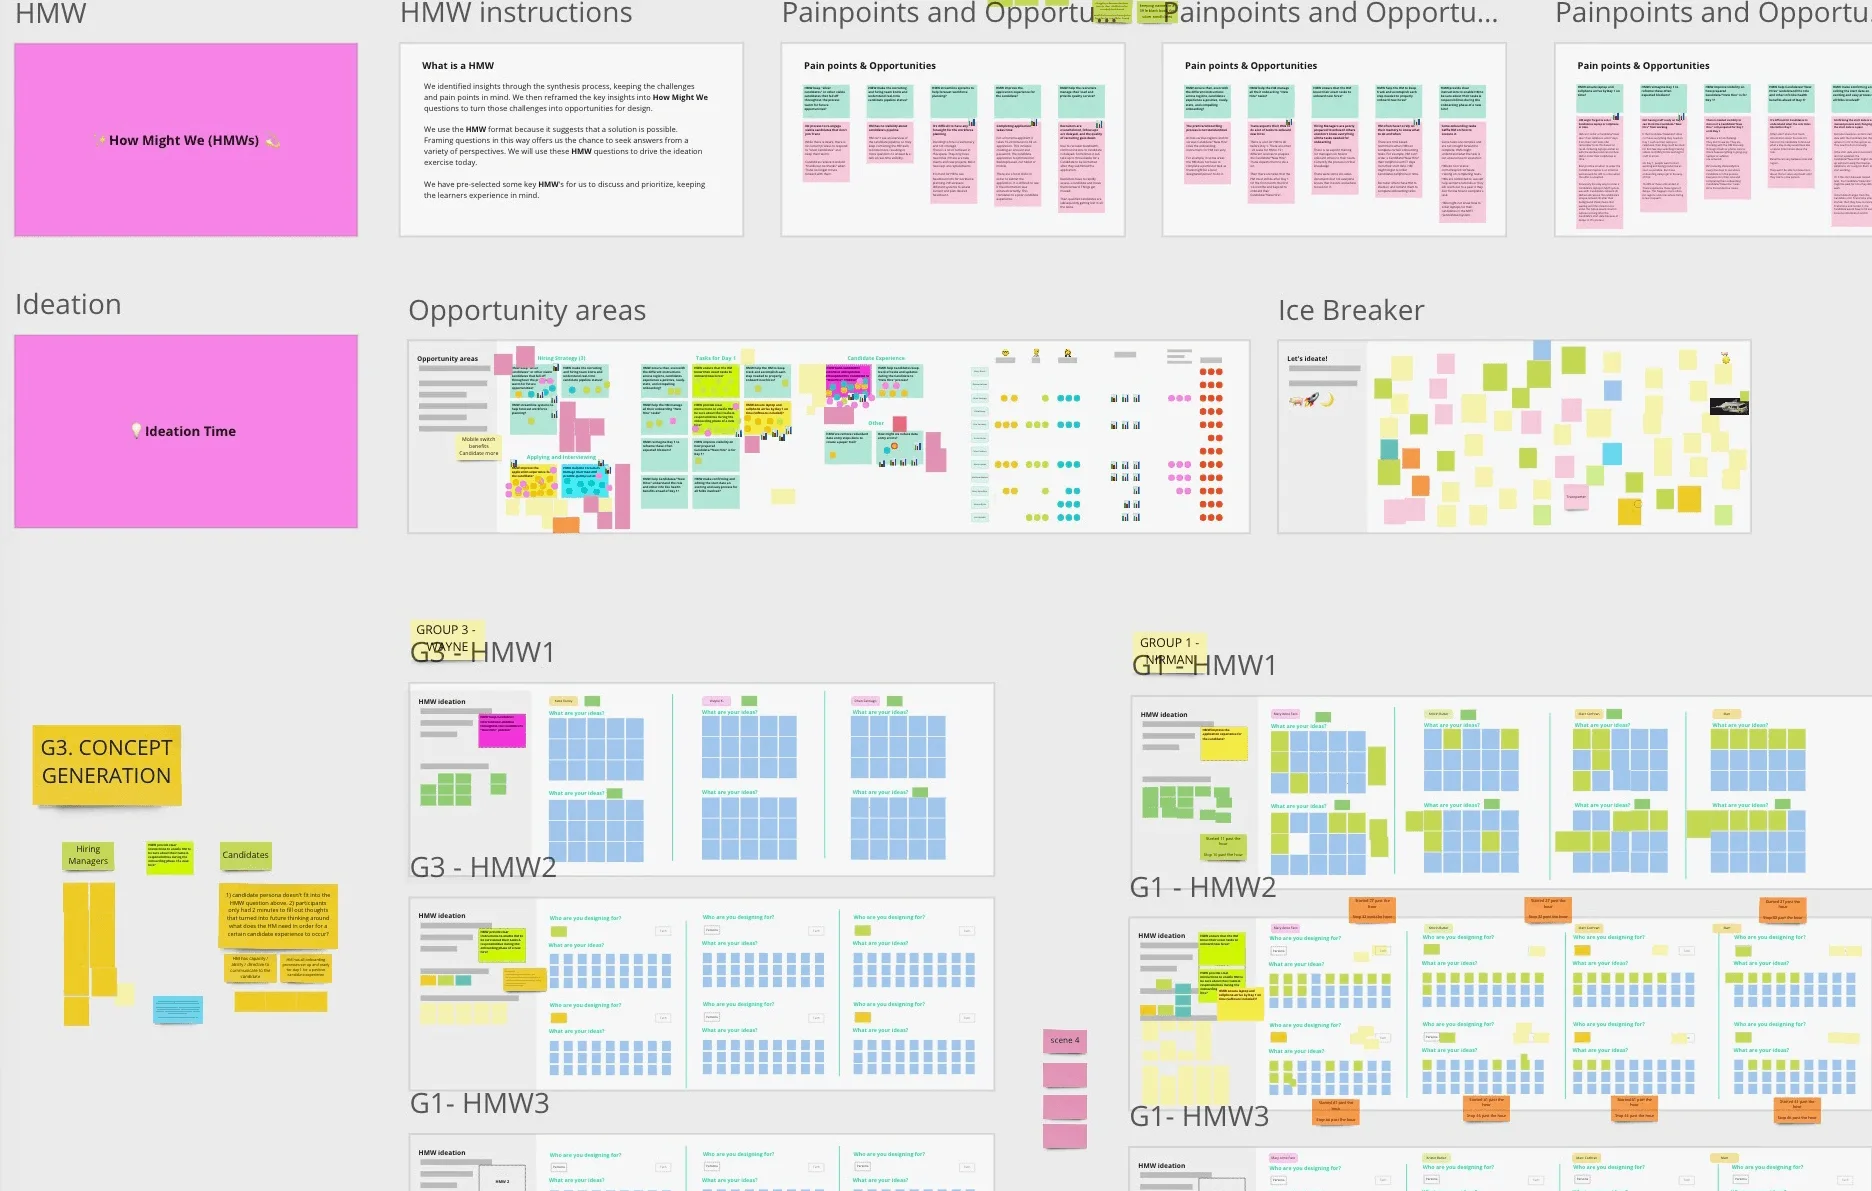
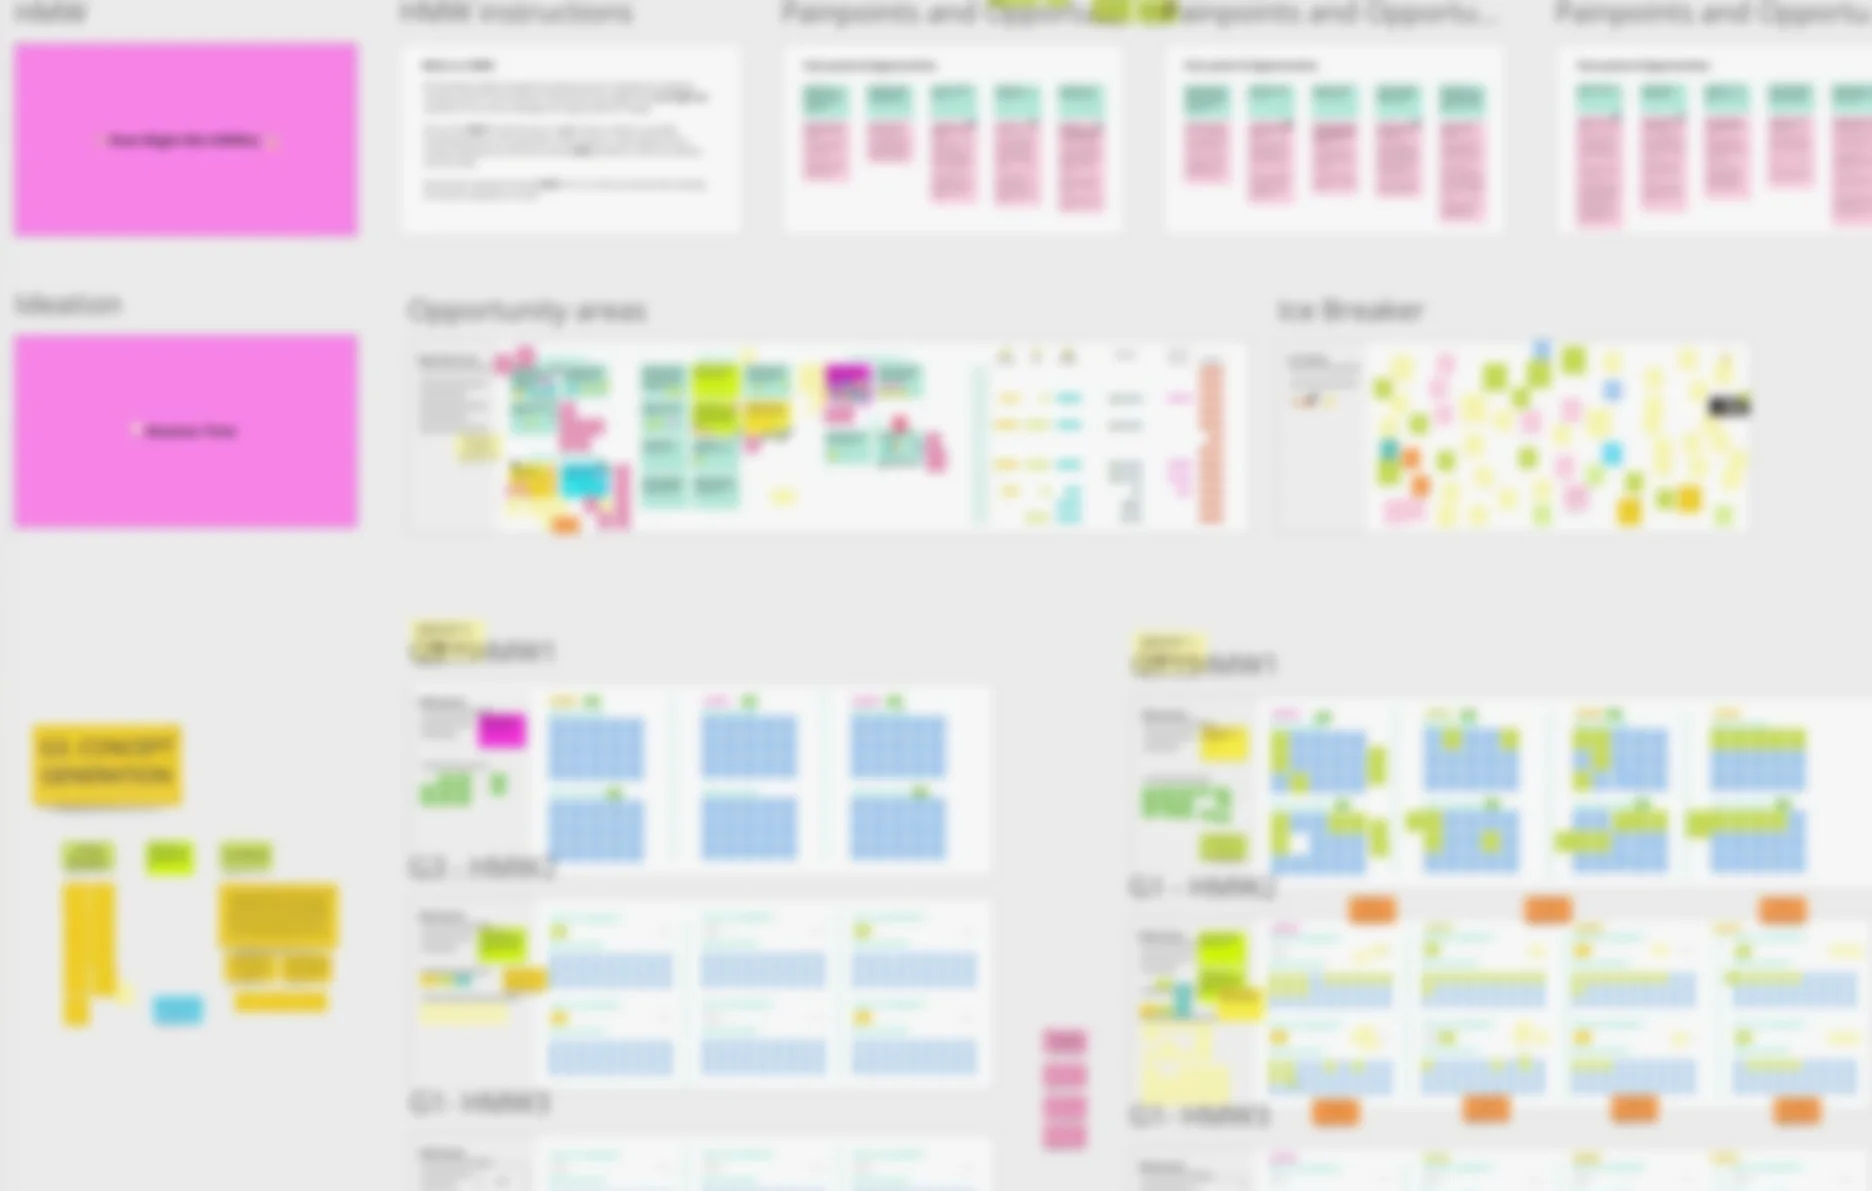
Trane supported and blurred, ideation date, three projects to Play, hide two Play rows, update handoff
Claude-Session: https://claude.ai/code/session_011jXBm7QXu9Pk4QBwzRNHUr

diff --git a/src/data/play.ts b/src/data/play.ts
@@ -3,7 +3,10 @@
 // image is optional: a preview that appears on hover.
 export const play = [
   { name: 'Tamer Kebap Eating Club', line: 'A thank-you shirt for the kebab shop that fed our class.', year: '2026', href: '/play/tamer-kebap/', image: '/play/tamer-kebap-assets/shirts.webp' },
+  { name: 'Mirrored Canvas', line: 'A mirror that turns silly faces into projected visuals.', year: '2024', href: '/work/mirrored-canvas/', image: '/work/mirrored-canvas-assets/hero.webp' },
+  { name: 'Lume', line: 'Blind-spot alerts inside a motorcycle helmet, prototyped in VR.', year: '2025', href: '/work/lume/', image: '/work/lume-assets/hero.webp' },
+  { name: 'Larvae Lagoon', line: 'A dragonfly habitat for a valley between droughts and floods.', year: '2024', href: '/work/larvae-lagoon/', image: '/work/larvae-assets/hero.webp' },
   { name: 'A Serious Fan', line: 'A fan that cools you down only when you keep your word.', year: '2025', href: '/play/a-serious-fan/', image: '/play/fan-assets/hero.webp' },
-  { name: 'Monet Clock', line: "Monet's Rouen Cathedral paintings, as a 24-hour clock.", year: '2026' },
-  { name: 'Above', line: 'Cloud watching, with a friend guessing what you see.', year: '2026' },
+  // Hidden for now: { name: 'Monet Clock', line: "Monet's Rouen Cathedral paintings, as a 24-hour clock.", year: '2026' },
+  // Hidden for now: { name: 'Above', line: 'Cloud watching, with a friend guessing what you see.', year: '2026' },
 ];

diff --git a/notes/handoff.md b/notes/handoff.md
@@ -45,17 +45,36 @@ jumps:                   # phone-only jump links; `to` = heading slug
   - **Research and strategy** (Glorify, RaiseMe): question, research, findings, decision, results, reflection. Charts, diagrams, quote boxes.
   - **Design and build** (Living.fm, BSS): why, explore, build, test and what broke, reflection. Silent looping clips (`autoplay muted loop playsinline`, no controls or sound), clip grids, one full-width moment.
 
-## Done
-- Homepage: availability status line, name, "Interaction designer and researcher." Selected work cards, Play (3 rows plus "See all"), About with a years list.
-- Live case studies: Glorify Groups (1), RaiseMe Portal (2), Living.fm (3), Bureau of Sanctioned Sketching (4).
-- Footer: click-to-copy email, LinkedIn, Resume (`public/resume.pdf`). Old Framer URLs redirect (astro.config.mjs).
+## Done (as of Oct 16, 2026)
+- Homepage: status line, name, Selected work (6 cards), Play (first 3 rows, hover previews), About with one-line years.
+- Work (/work): Glorify Groups, RaiseMe Portal, Living.fm, BSS, room_tone, Linee, Designit: Futures, Facilitation.
+- Play (/play): Tamer Kebap Eating Club, Mirrored Canvas, Lume, Larvae Lagoon, A Serious Fan. Monet Clock and Above are hidden in `src/data/play.ts` until Wayne adds them.
+- Mirrored Canvas, Lume, Larvae Lagoon use the case study template but set `listIn: play` (listed in Play, back links go to Play).
+- Play write-ups (Tamer, Fan) live in `src/content/play/` and use `src/pages/play/[slug].astro`.
+- Every old Framer URL redirects (astro.config.mjs).
+- CIID pages list "Responsibility" instead of Role. BSS and Larvae Lagoon have none.
+- Each CIID project ends with its full Vimeo/YouTube video embedded (`figure.embed`).
+
+## Media system (agreed Oct 16)
+- One shape: 3:2 for every photo and clip (`figure.frame`, `.pair`, `.grid3`, `.seq`, cards). Vertical phone clips: 4:5 grid (`.grid3.tall`) or blurred fill baked into the file.
+- Two widths: wide for media, text width for anything you read (diagrams, tables, quotes, screenshots of slides use `figure.wide` with zoom links).
+- `.pair.keep` stays side by side on phones. `.pair.natural` shows images uncropped.
+- `hideHero: true` hides the page hero but keeps it for the card. `card:` sets a different card image.
+- Test page: /media-test/ (unlisted, noindex). Delete when no longer useful.
+
+## Diagram kit
+- `.flow` (numbered steps, one `.focal` in cobalt, `.flow-note` loop line), `.sys` (Inputs, Brain, Outputs), `.stats` (big numbers, `.three` for three across), `.compare`, `.cols3`, room_tone's `.layers` and `.days`, BSS's `.yesand` panels.
+
+## Getting assets from Framer
+- The cloud workspace can't download from framerusercontent.com. Write a script in `notes/` with the URLs, push it, and have Wayne run it in Terminal: `curl -sL https://raw.githubusercontent.com/wanyekest10/waynekimdesigns/main/notes/<script>.sh | bash`. Files land in ~/Downloads/portfolio-rebuild/, then stage them over.
 
 ## Next
-1. **room_tone** (design and build, solo, 4 weeks, 2026). Assets are in ~/Downloads/portfolio-rebuild/room-tone-originals: hero.jpg, workday and layers diagrams, a showcase video, and four step clips (launch, activation, ask, exit). Plan: redraw the state machine (light, then motion, then music, then exit) and the "flat day vs day with shape" comparison; show the four clips as a sequence; include the dropped checklist version as "what didn't work." Then remove room_tone from `src/data/archive.ts`.
-2. Toilet Paper Elevator, once Wayne's video is edited.
-3. About section: rewrite around "building to think" (see backlog).
-4. Play: confirm the items, write up Tamer Kebap.
-5. Domain switch.
+1. Status line: hover or short lines on how Wayne can contribute (see backlog). Discuss first.
+2. Toilet Paper Elevator, once the video is edited.
+3. About section rewrite around "building to think".
+4. Monet Clock and Above in Play.
+5. Open questions: BSS Lowenfeld age wording; fan goal mechanism; Lume subtle-cueing paper link; higher-res fan hero.
+6. Domain switch.
 
 ## Domain switch (when ready)
 1. Cloudflare: Add a domain, enter waynekimdesigns.com, choose the Free plan, and copy the two nameservers.

diff --git a/src/content/work/facilitation.md b/src/content/work/facilitation.md
@@ -15,7 +15,7 @@ jumps:
 short:
   - { lead: "The problem.", text: "Senior teams have strong opinions about where a product should go, but those opinions are rarely tested against each other. A meeting rarely changes that." }
   - { lead: "What I do.", text: "Design workshops that separate certainty from assumption, start from written positions instead of whoever speaks first, and end with a synthesis someone can act on." }
-  - { lead: "What happened.", text: "Workshops for Wipro, Trane, the Busan Design Council, and my own final project at CIID. At Glorify, one workshop became the research agenda for the year." }
+  - { lead: "What happened.", text: "Workshops for Wipro, the Busan Design Council, and my own final project at CIID, plus supporting one for Trane. At Glorify, one workshop became the research agenda for the year." }
 facts:
   - { label: "Where", value: "Designit · CIID · Glorify" }
   - { label: "Role", value: "Designer and facilitator" }
@@ -36,9 +36,9 @@ A design thinking workshop that turned C-suite priorities into product direction
 
 ## Trane at Designit
 
-<p class="ws-meta"><span>Remote</span> · <span>Employee experience</span> · <span>Facilitated</span></p>
+<p class="ws-meta"><span>Remote</span> · <span>Employee experience</span> · <span>Supported</span></p>
 
-A session that moved from pain points to personas to a prioritized opportunity map for the next phase of work. Details are under NDA.
+I supported a session that moved from pain points to personas to a prioritized opportunity map for the next phase of work. Details are under NDA, so the boards are blurred.
 
 <figure class="pair">
   <img src="/work/facilitation-assets/trane-board-a.webp" alt="A remote workshop board with an icebreaker, agenda, pain points, and three personas"/>
@@ -58,7 +58,7 @@ The 2025 CIID Global Design Workshop for Busan Design Council participants.
 
 ## Ideation at CIID
 
-<p class="ws-meta"><span>Final project brainstorm</span> · <span>Designed and facilitated</span></p>
+<p class="ws-meta"><span>June 2025</span> · <span>Final project brainstorm</span> · <span>Designed and facilitated</span></p>
 
 A brainstorm for the Bureau of Sanctioned Sketching with classmates. Before any ideas, I grounded the room in permission: it was okay to get weird and bold, and the goal was 100+ ideas, not good ones. Then the constraints arrived one per minute, so nobody had time to judge their first instinct.
 

diff --git a/src/content/work/lume.md b/src/content/work/lume.md
@@ -5,6 +5,7 @@ headline: "A blind-spot alert for motorcycle helmets that puts a quiet cue in th
 context: "CIID, 2025"
 order: 8
 featured: false
+listIn: play
 label: "Spatial computing and prototyping"
 summary: "Blind-spot alerts inside a motorcycle helmet."
 hero: "/work/lume-assets/hero.webp"

diff --git a/src/content/work/mirrored-canvas.md b/src/content/work/mirrored-canvas.md
@@ -5,6 +5,7 @@ headline: "An installation that turns silly faces into projected visuals, so peo
 context: "CIID, 2024"
 order: 7
 featured: false
+listIn: play
 label: "Computer vision and play design"
 summary: "A mirror that rewards silly faces."
 hero: "/work/mirrored-canvas-assets/hero.webp"

diff --git a/src/content/work/larvae-lagoon.md b/src/content/work/larvae-lagoon.md
@@ -5,6 +5,7 @@ headline: "A modular dragonfly habitat for a valley caught between droughts and 
 context: "CIID, 2024"
 order: 10
 featured: false
+listIn: play
 label: "Research and biomimicry"
 summary: "Designing for a non-human user."
 hero: "/work/larvae-assets/hero.webp"
